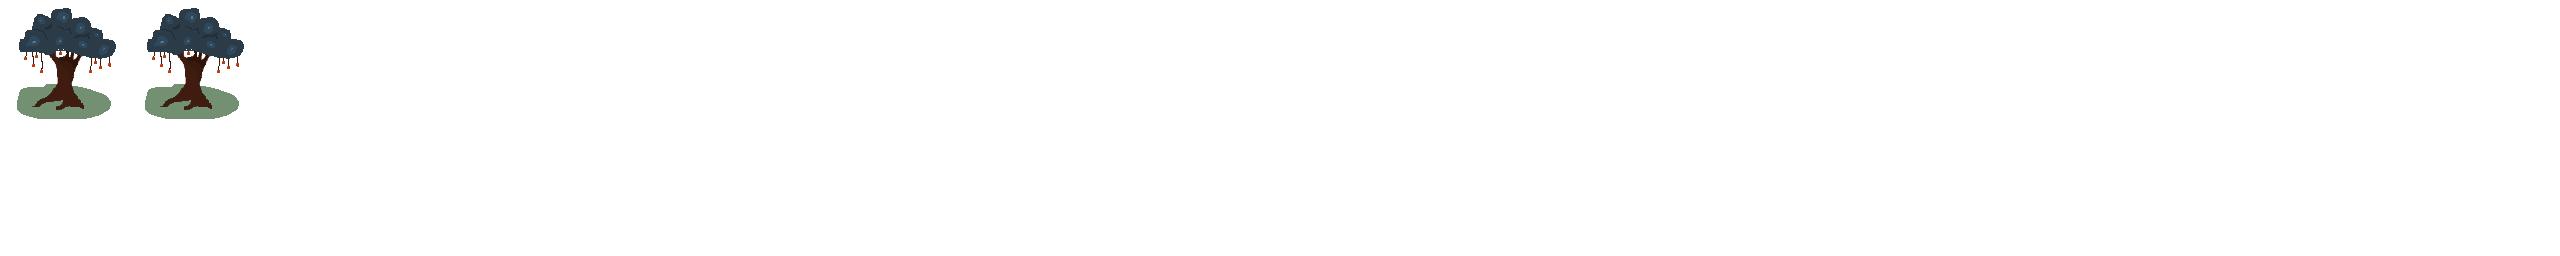
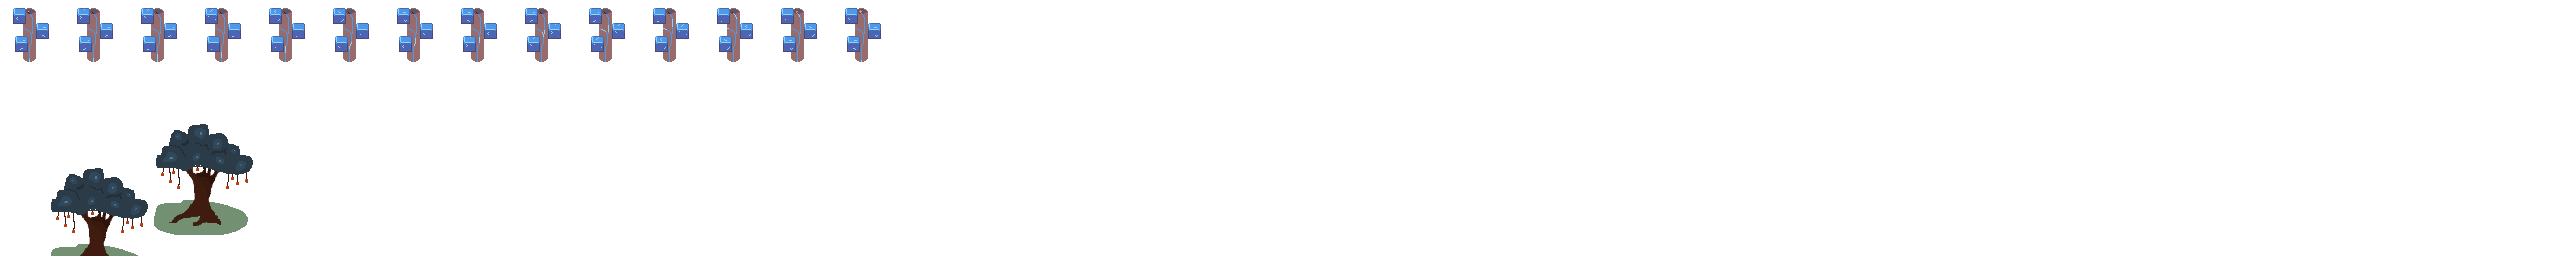
[fas] changed model for food and deposit

Changed region(s): [[0.0, 0.0312, 0.3438, 0.4688], [0.0, 0.5, 0.125, 1.0]]

diff --git a/src/fair_and_square/src/core/game/loader/ResourceLoader.cc b/src/fair_and_square/src/core/game/loader/ResourceLoader.cc
@@ -57,12 +57,12 @@ RessourceLoader::RessourceLoader(cuttlefish::Window &window_p, unsigned long ful
 
 	// resources
 	_spriteLib.registerSpriteTemplate("resource_steel", window_p.loadTexture("resources/steel_prop1.png"), 2., 128, 128, 256, 256, {10, 10}, {0.2,0.2}, 1);
-	_spriteLib.registerSpriteTemplate("resource_food", window_p.loadTexture("resources/fair_and_square/food_prop2.png"), 2., 64, 64, 128, 128, {2, 2}, {0.5, 1.}, 1);
+	_spriteLib.registerSpriteTemplate("resource_food", window_p.loadTexture("resources/fair_and_square/food_prop2.png"), 1., 32, 32, 64, 64, {14, 1}, {0.1, 1.}, 1);
 
 	// neutral
 	_spriteLib.registerSpriteTemplate("command_center", window_p.loadTexture("resources/fair_and_square/command_center.png"), 2., 64, 64, 128, 128, {8, 2, 2, 2}, {0.25, 0.5, 0.5, 0.5}, 1);
 	_spriteLib.registerSpriteTemplate("barrack", window_p.loadTexture("resources/fair_and_square/barrack.png"), 1., 32, 32, 64, 64, {16, 1, 1, 1}, {0.25, 0.5, 0.5, 0.5}, 1);
-	_spriteLib.registerSpriteTemplate("deposit", window_p.loadTexture("resources/deposit.png"), 1., 32, 32, 64, 64, {2, 2, 2, 2}, {0.25, 0.5, 0.5, 0.5}, 1);
+	_spriteLib.registerSpriteTemplate("deposit", window_p.loadTexture("resources/fair_and_square/deposit.png"), 1., 32, 32, 64, 64, {14, 1, 1, 1}, {0.1, 0.5, 0.5, 0.5}, 1);
 	_spriteLib.registerSpriteTemplate("worker", window_p.loadTexture("resources/fair_and_square/worker_v2.png"), 0.5, 32, 32, 64, 64, {2, 2}, {0.5, 0.1}, 1);
 	_spriteLib.registerAltTextureForTemplate("worker", 0, window_p.loadTexture("resources/fair_and_square/worker_v2_green.png"));
 	_spriteLib.registerAltTextureForTemplate("worker", 1, window_p.loadTexture("resources/fair_and_square/worker_v2_red.png"));

diff --git a/src/cuttlefish/src/window/Window.cc b/src/cuttlefish/src/window/Window.cc
@@ -26,6 +26,8 @@ bool Window::init(int width_p, int height_p, unsigned long worldSize_p)
 	{
 		//Create window
 		_window = SDL_CreateWindow( "Cuttlefish", SDL_WINDOWPOS_UNDEFINED, SDL_WINDOWPOS_UNDEFINED, width_p, height_p, SDL_WINDOW_SHOWN );
+
+		//SDL_SetWindowFullscreen(_window, SDL_WINDOW_FULLSCREEN);
 		if( _window == nullptr )
 		{
 			std::cout<< "Window could not be created! SDL Error: "<< SDL_GetError() <<std::endl;

diff --git a/src/fair_and_square/src/library/model/ModelLoader.cc b/src/fair_and_square/src/library/model/ModelLoader.cc
@@ -133,7 +133,7 @@ void createDeposit(Library &lib_p)
 
 void createResourceFood(Library &lib_p)
 {
-	EntityModel resModel_l { true, 1.8, 1., 10. };
+	EntityModel resModel_l { true, 0.9, 1., 10. };
 	resModel_l._isResource = true;
 	resModel_l._isStatic = true;
 	lib_p.registerEntityModel("resource_food", resModel_l);
